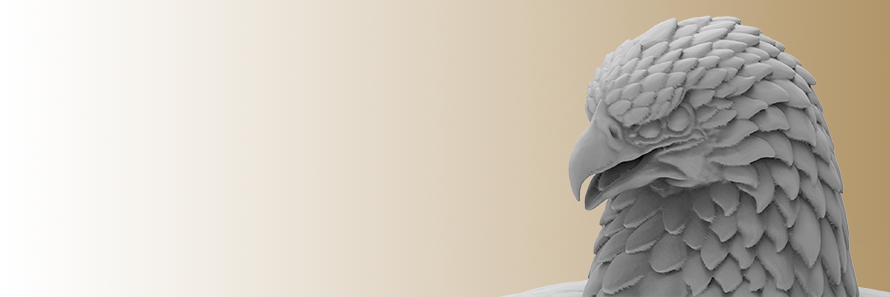
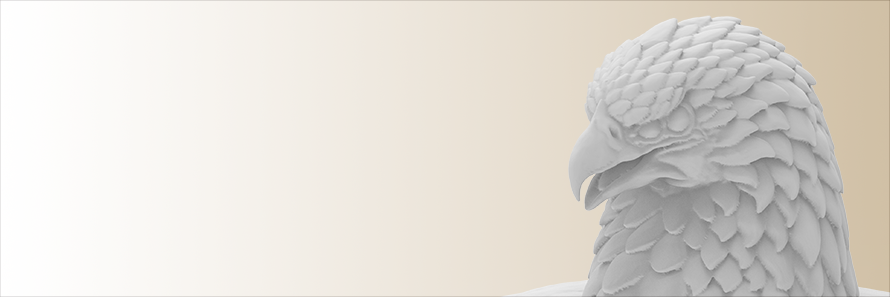
ver.1.2.5

diff --git a/index.html b/index.html
@@ -25,16 +25,16 @@
   <ul class="contents">    
     <li>
       <a href="standard_model.html">
-        <div class="work-title">スタンダードフィギュア　/　Standard model
-          <br><span class="catch">〜　ハイクオリティと手軽さを両立させたフィギュア　〜</span>
+        <div class="work-title">スタンダードフィギュア
+          <br><span class="catch">〜　ハイクオリティと手軽さを両立させたモデル　〜</span>
         </div>
       </a>
     </li>
 
     <li>
       <a href="head_model.html">
-        <div class="work-title01">ヘッドモデルフィギュア　/　Head model
-          <br><span class="catch">〜　手軽さを重視したフィギュア　〜</span>
+        <div class="work-title01">ヘッドモデルフィギュア
+          <br><span class="catch">〜　手軽さを重視したモデル　〜</span>
         </div>
       </a>
     </li>

diff --git a/css/index.css b/css/index.css
@@ -211,7 +211,7 @@ li{
     padding: 50px 15px !important;
     min-height: 150px !important; /* 今の高さをしっかり維持 */
     box-sizing: border-box !important;
-    font-size: 18px;
+    font-size: 15px;
   }
 
   .contents li a .work-title01 {
@@ -225,7 +225,7 @@ li{
     padding: 50px 15px !important;
     min-height: 150px !important; /* 今の高さをしっかり維持 */
     box-sizing: border-box !important;
-    font-size: 18px;
+    font-size: 15px;
   }
 
   .catch {
